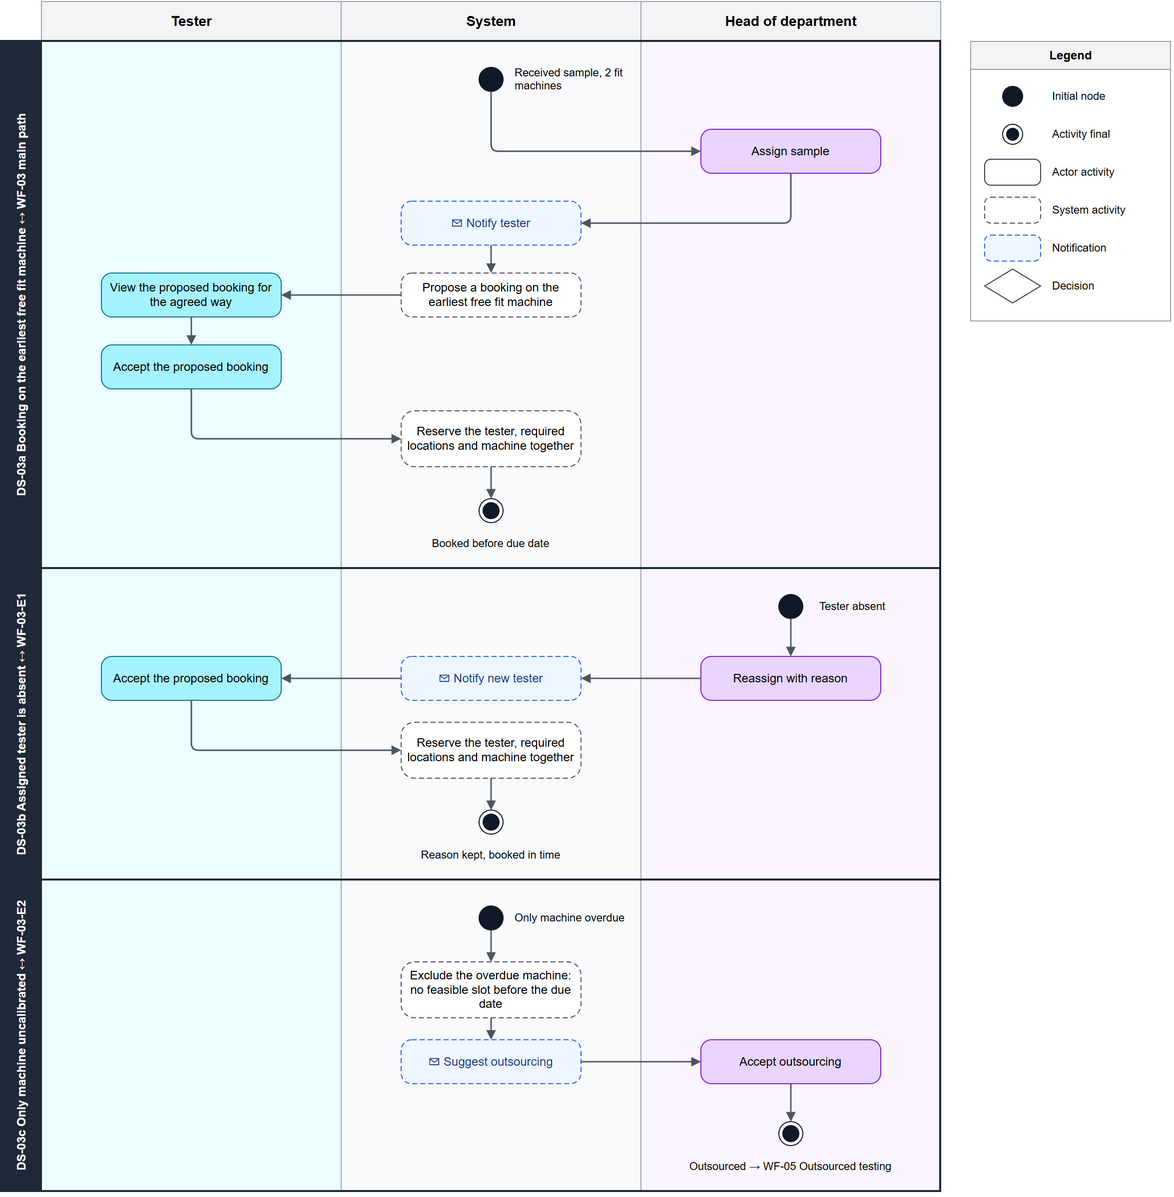
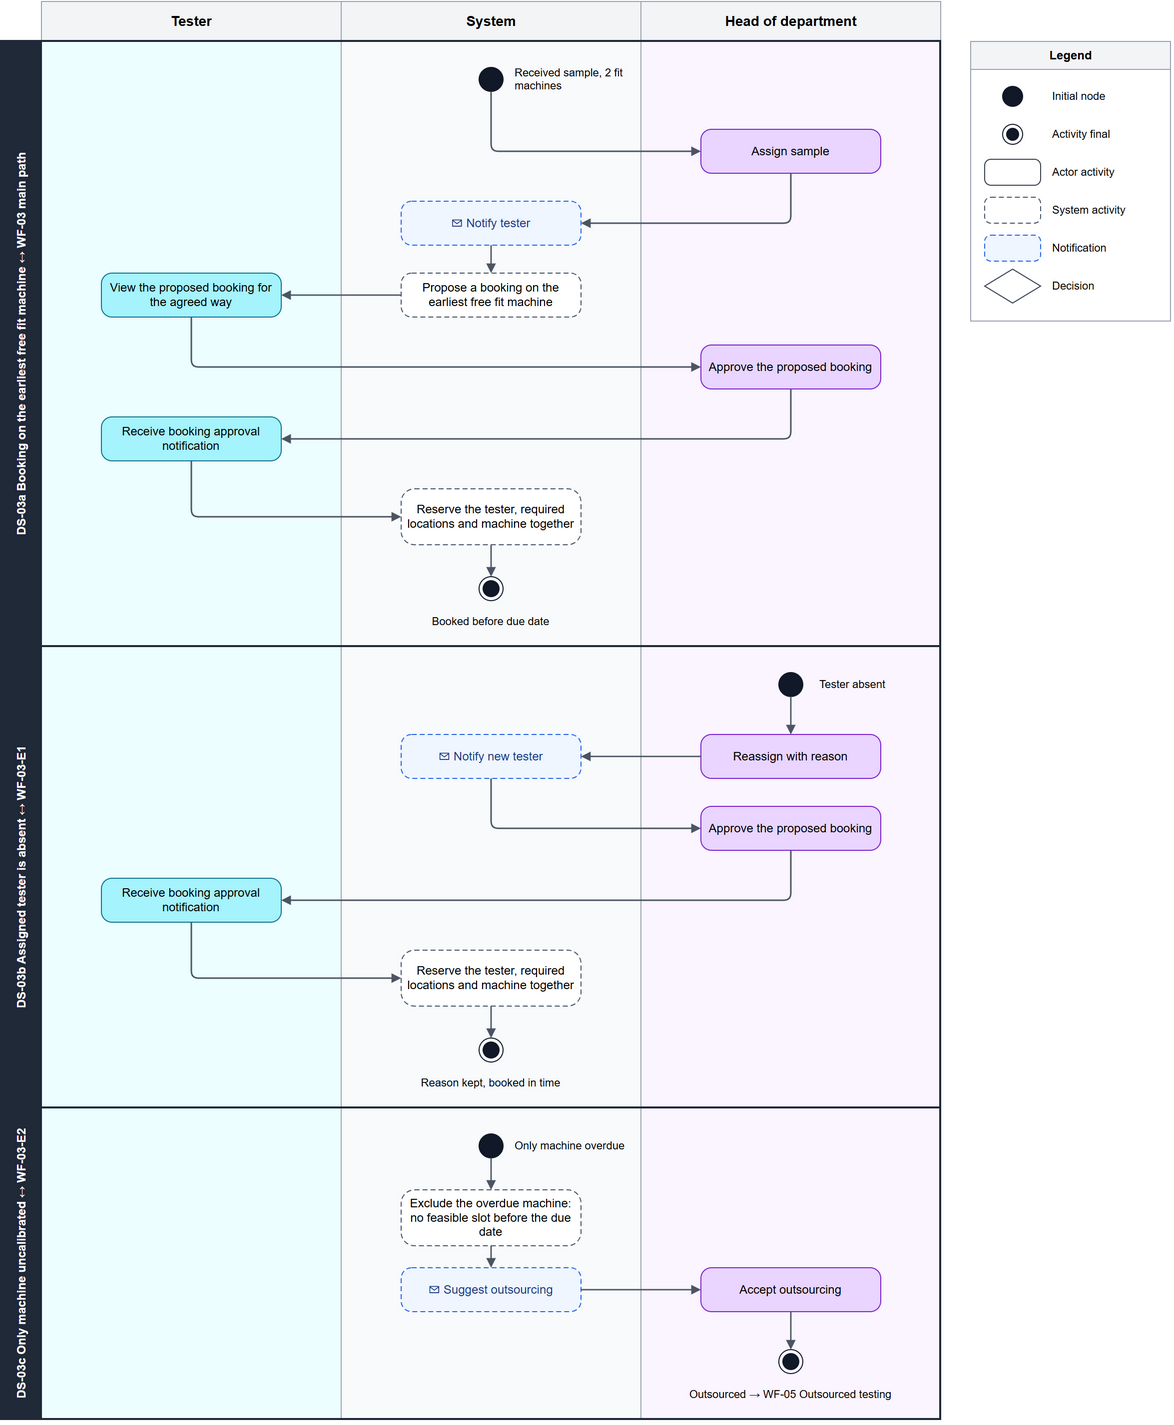
[docs] Have the head approve every feasible WF-03 booking

diff --git a/docs/reports/activity-diagram/flows-work-of-tuyen/_review/wf-03-doc-changes.md b/docs/reports/activity-diagram/flows-work-of-tuyen/_review/wf-03-doc-changes.md
@@ -13,9 +13,25 @@ Differences from `## WF-03 Testing assignment and scheduling` in `docs/functiona
 
 ## The system decides whether the booking is feasible
 
-- **Diagram:** the decision "Feasible booking before the due date?" is in the System lane, after the tester views the proposed booking: yes leads to accepting the booking, no to the head's review.
+- **Diagram:** the decision "Feasible booking before the due date?" is in the System lane, after the tester views the proposed booking: yes leads to the head's approval, no to the head's review.
 - **Concerns:** the mermaid of `## WF-03 Testing assignment and scheduling`, which puts `t3{Feasible booking within capacity?}` in the Tester lane. WF-03-E2 and the outsourcing rule of [Head of department](../../../../functional/laboratory_module/features/head-of-department.md) already say the scheduler finds no feasible slot before the due date.
-- **New text:** in the mermaid, move the decision out of the Tester subgraph, beside `queue` and `reserve`: `t2 --> feasible{Feasible booking before the due date?}`, with its `yes`, `yes, the head accepts` and `no` lines leaving `feasible`.
+- **New text:** in the mermaid, move the decision out of the Tester subgraph, beside `queue` and `reserve`: `t2 --> feasible{Feasible booking before the due date?}`, with `feasible -->|yes| approve` and `feasible -->|no| h2`.
+
+## The head approves every feasible booking
+
+- **Diagram:** after "Feasible booking before the due date?" answers yes, the head decides "Head approves the proposed booking?". Yes: the tester gets "Receive booking approval notification", then the system reserves the tester, required locations and machine if needed together. No: the head goes to "Review risk and feasible alternatives". Neither the tester nor the head accepts a proposed booking without this approval. The Demo scenarios page shows it in DS-03a and DS-03b: the head's "Approve the proposed booking", then the tester's "Receive booking approval notification".
+- **Concerns:**
+  - `## WF-03 Testing assignment and scheduling`: Main path ("the tester or head accepts it"), WF-03-E1 ("an authorized person accepts the booking") and the mermaid (`h4[Accept the proposed booking for the tester]`, `t4[Accept the proposed booking]`, `t3 -->|yes, the head accepts| h4`). SF-10's Paths in other flows ("WF-03 owns initial assignment and accepting bookings").
+  - [Tester](../../../../functional/laboratory_module/features/tester.md): US-T02 ("I want to accept a booking of the agreed way of testing from my department's proposed plan") and the rule "Accepting a booking checks that the tester, every required location and a machine when required are available".
+  - [Head of department](../../../../functional/laboratory_module/features/head-of-department.md): no story yet for approving a proposed booking.
+  - The mermaid of [Laboratory overview](../../../../functional/laboratory_module/overview.md) (`plan --> accept[Tester or head accepts the booking]`) and [Scheduling](../../../../specs/scheduling.md) ("Testers and heads accept proposed bookings to schedule them"; the Accepting row).
+  - The use case "Accept Proposed Booking" of US-T02 in [Use case diagram](../../../use-case-diagram/readme.md).
+- **New text:**
+  - Main path: "… the department's plan proposes a booking of the agreed way in priority order; when it is feasible before the due date, the head approves it, the tester is notified, and it receives a reminder."
+  - WF-03-E1: "… the head moves the task to another person or department with a reason, approves the proposed booking, and the new tester is notified."
+  - Mermaid: in the Head of department subgraph, replace `h4` with `approve{Approve the proposed booking?}`; in the Tester subgraph, replace `t4` with `t4[Receive booking approval notification]`; `approve -->|yes| t4 --> reserve`, `approve -->|no| h2`.
+  - US-T02 becomes "As a tester, I want to be notified when the head approves a booking of my task, so that I know when to test"; a new head-of-department story: "As a head of department, I want to approve a feasible proposed booking of my department, so that it is reserved before its due date."
+  - Scheduling: "Heads approve proposed bookings to schedule them; the tester is notified." The Accepting row becomes Approving: "Approving a booking reserves its tester, machine and locations together, or nothing when any of them is taken meanwhile."
 
 ## The reminder is the system's; measuring belongs to WF-04
 
